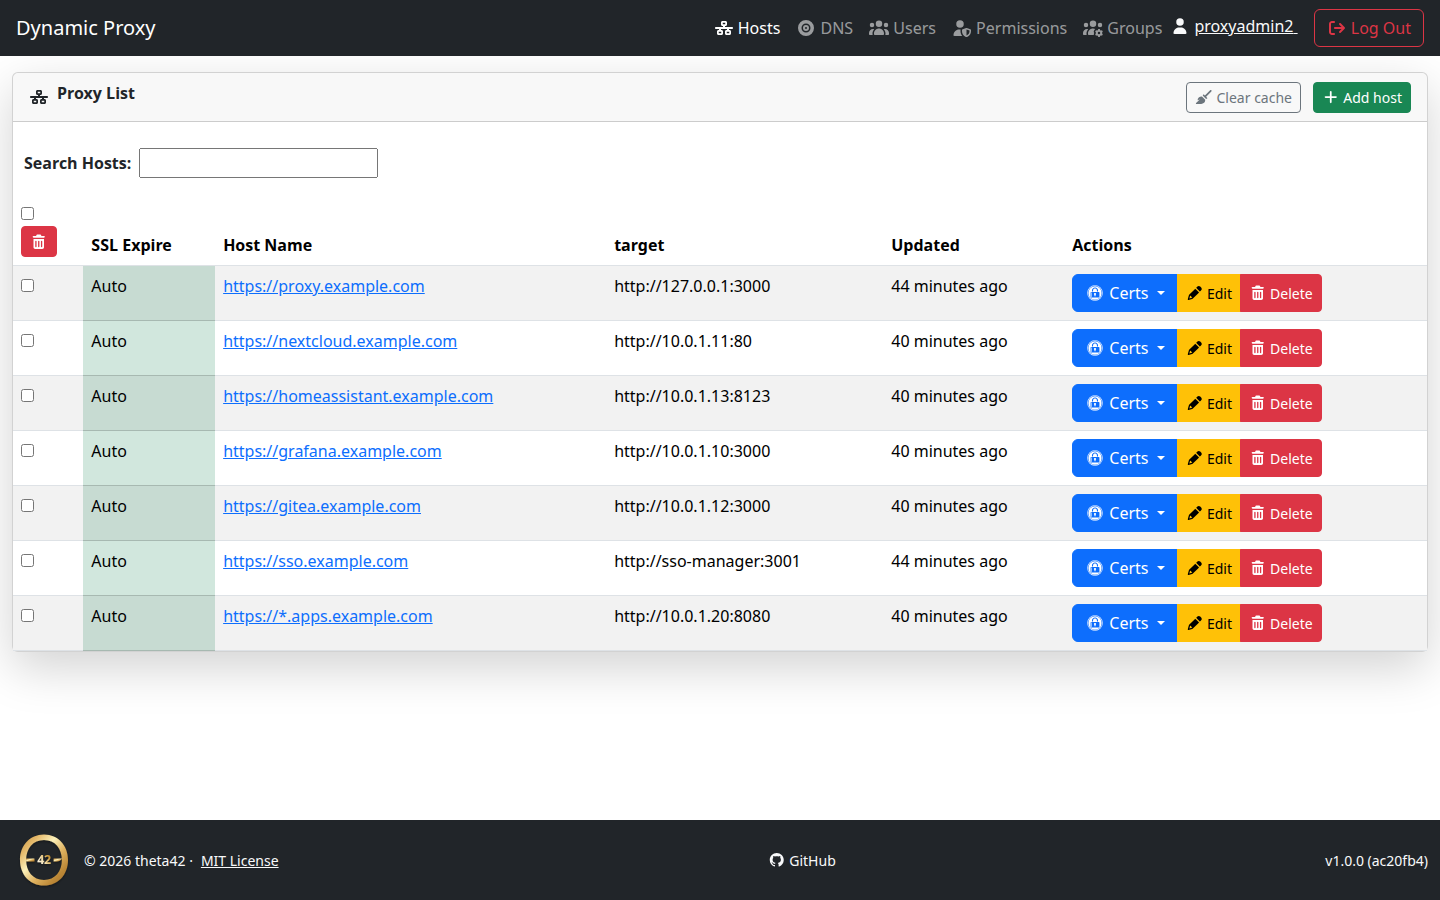
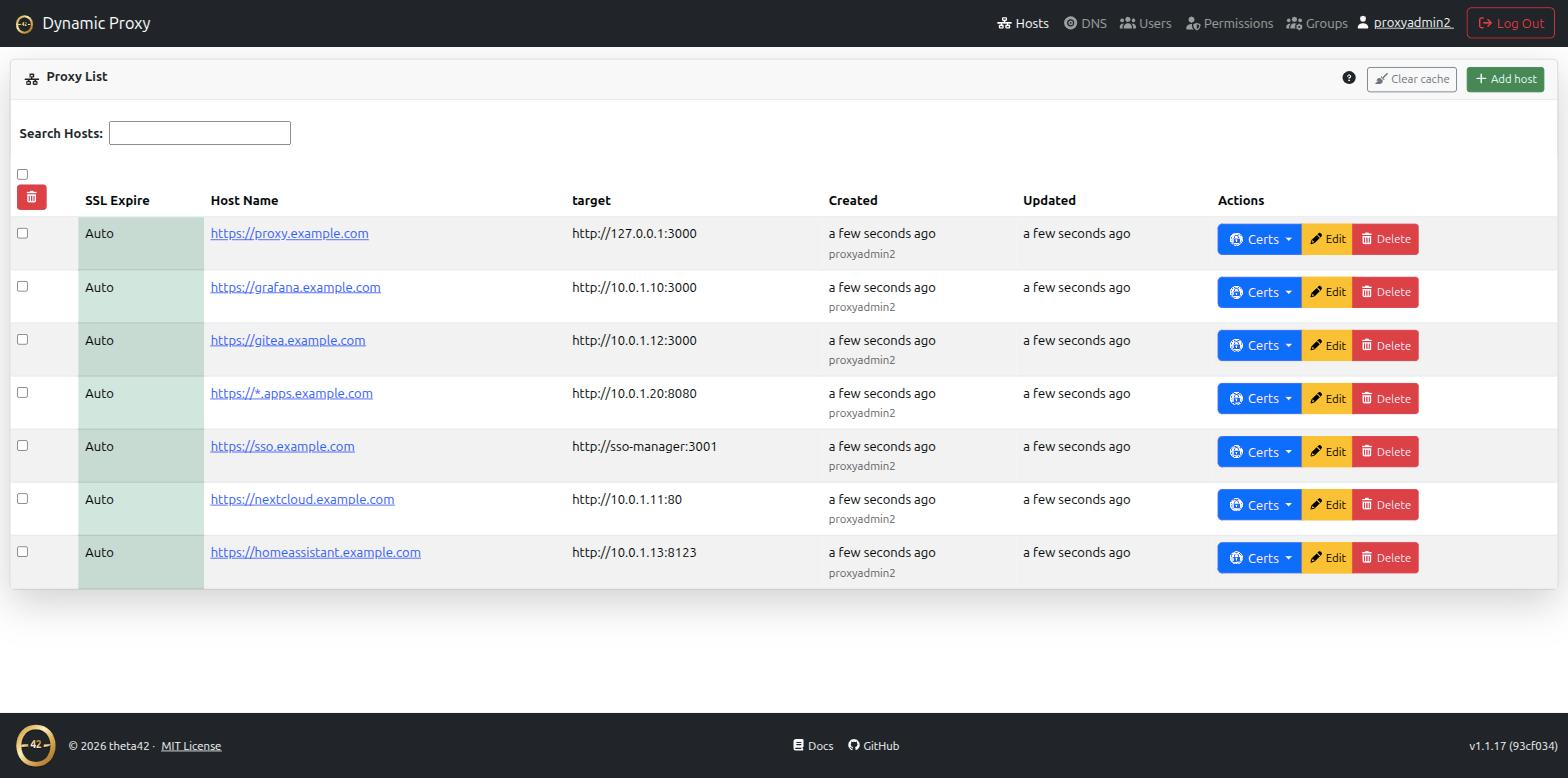
Release 1.1.18: fix bootstrap admin lockout, refresh screenshots
models/user_redis.js hardcoded the bootstrap anti-lockout admin
username to 'proxyadmin2', while migrations/permission_bootstrap.js
grants the global-admin permission to conf.auth.adminUsers[0]. An
operator who customized adminUsers away from the default ended up
with a bootstrapped account that had no admin permissions -- a
silent lockout. user_redis.js now derives the bootstrap username the
same way permission_bootstrap.js does.

Also corrected a secrets.js.example comment that claimed the
bootstrap password defaults to the username itself (it actually
generates and logs a random password), and refreshed all README
screenshots against the current UI, including a new load-balancing
screenshot.

diff --git a/nodejs/models/user_redis.js b/nodejs/models/user_redis.js
@@ -87,7 +87,11 @@ class User extends Table{
 User.register();
 
 (async function(){
-	var defaultUser = 'proxyadmin2'
+	// Matches migrations/permission_bootstrap.js: the anti-lockout account is
+	// the first entry in conf.auth.adminUsers (default 'proxyadmin2'), NOT a
+	// hardcoded name -- otherwise an operator who customizes adminUsers ends
+	// up with a bootstrap account that has no admin permissions.
+	var defaultUser = (conf.auth && conf.auth.adminUsers && conf.auth.adminUsers[0]) || 'proxyadmin2';
 	// Optional: an orchestrator (e.g. theta-env's setup.sh) can set
 	// auth.localAdminPass in proxy-secrets.js to a generated password so this
 	// bootstrap account isn't left at a well-known default. Only used on first

diff --git a/CHANGELOG.md b/CHANGELOG.md
@@ -6,6 +6,15 @@ correspond to git tags (`vX.Y.Z`) and `nodejs/package.json`'s `version`.
 
 ## [Unreleased]
 
+## [1.1.18] - 2026-07-21
+
+### Fixed
+- The bootstrap anti-lockout admin account was always created as `proxyadmin2` regardless of `conf.auth.adminUsers`, while `migrations/permission_bootstrap.js` grants the global-admin permission to `conf.auth.adminUsers[0]`. If an operator customized `adminUsers` away from the default, the bootstrapped account and the permissioned account were two different (non-matching) usernames, so the anti-lockout account ended up with no admin access. `models/user_redis.js` now derives the bootstrap username from `conf.auth.adminUsers[0]` (falling back to `proxyadmin2`), matching `permission_bootstrap.js`.
+- Corrected a `secrets.js.example` comment that claimed the bootstrap admin's password "defaults to the username itself" — it actually generates a random password printed to the container log on first boot.
+
+### Changed
+- Refreshed all README screenshots (hosts, per-host SSO auth, per-host basic auth) against the current UI, and added a new load-balancing screenshot for the multi-target feature.
+
 ## [1.1.17] - 2026-07-20
 
 ### Fixed

diff --git a/README.md b/README.md
@@ -31,6 +31,10 @@ management once basic auth is enabled:
 
 [![Per-host basic auth](docs/images/host-auth-basic.png)](docs/images/host-auth-basic.png)
 
+Multiple backend targets per host, load balanced round-robin:
+
+[![Load balancing](docs/images/load-balancing.png)](docs/images/load-balancing.png)
+
 ## Why this over the alternatives
 
 Nginx Proxy Manager, Traefik, and Caddy are all good reverse proxies with